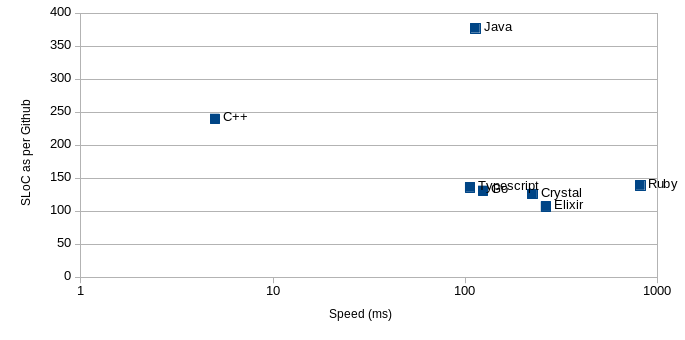
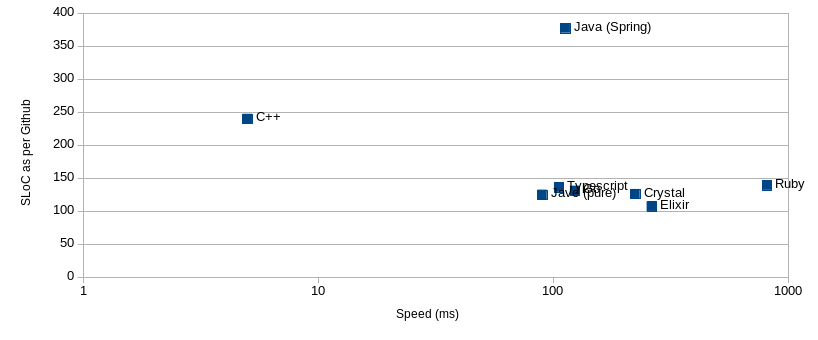
Updated the README file, together with the evaluation results.

diff --git a/README.md b/README.md
@@ -202,9 +202,12 @@ useful reference point.
 Compared to Ruby, Java's syntax is not as expressive leading to more lines of
 code - although my Java friends tell me that will all change with Java 9.  While
 it is fairly OO it does also have primitive types which does sometimes lead to
-more complex code.  That said, it is very fast (although it doesn't touch C++),
-you will always be able to find an answer to your questions on Stackoverflow,
-and there are lots of libraries for it.
+more complex code.
+
+Originally, Neil implemented the version found in the Java directory.  This uses
+Spring for the implementation.  Compared to the other languages, the Spring version
+needed an awful lot of lines of code, and was slightly slower than Typescript and
+Go.  Here is the build and execution of the Spring version:
 
 ```console
 # mvn clean package
@@ -232,8 +235,31 @@ Run 5 : Duration: 138ms
 
 ```
 
-One interesting observation is that because of the way the JIT compiler works
-the code gets faster as we repeat it.
+When I told Neil that his Java version ran slower than Typescript, he was
+suitably shocked, and then went an implemented a version that is pure Java
+without the need for Spring.  Here is the sequence to compile and execute
+the pure Java version:
+
+```console
+# cd 'java(pure)'/src
+# javac Hamiltonian.java
+# java Hamiltonian
+wdc->md->wv->ky->tn->va->nc->sc->ga->fl->al->ms->la->ar->mo->ia->mn->wi->il->in->mi->oh->pa->de->nj->ny->ct->ri->ma->vt->nh->me->
+Duration: 134ms
+wdc->md->wv->ky->tn->va->nc->sc->ga->fl->al->ms->la->ar->mo->ia->mn->wi->il->in->mi->oh->pa->de->nj->ny->ct->ri->ma->vt->nh->me->
+Duration: 122ms
+wdc->md->wv->ky->tn->va->nc->sc->ga->fl->al->ms->la->ar->mo->ia->mn->wi->il->in->mi->oh->pa->de->nj->ny->ct->ri->ma->vt->nh->me->
+Duration: 85ms
+wdc->md->wv->ky->tn->va->nc->sc->ga->fl->al->ms->la->ar->mo->ia->mn->wi->il->in->mi->oh->pa->de->nj->ny->ct->ri->ma->vt->nh->me->
+Duration: 90ms
+wdc->md->wv->ky->tn->va->nc->sc->ga->fl->al->ms->la->ar->mo->ia->mn->wi->il->in->mi->oh->pa->de->nj->ny->ct->ri->ma->vt->nh->me->
+Duration: 85ms
+
+```
+
+Two interesting observations arise: firstly, while Spring obviously brings
+advantages, for this problem it just increases code size and slows down performance;
+secondly, because of the way the JIT compiler works the code gets faster as we repeat it.
 
 Pros:
 - maturity
@@ -388,8 +414,9 @@ not as rounded as Ruby.  I am surprised that Typescript does not have Map suppor
 backed into the syntax like most of the other languages.  Overall, its expressiveness is
 lower than Ruby but better than Go, Java or C++.
 
-The really big surprise, though, is the execution speed.  It is faster than Java,
-although not anywhere near C++.  My main conclusion is that the Map functionality
+The really big surprise, though, is the execution speed.  It is only very slightly
+slower than pure Java and faster than the Spring version in Java.  However, it is
+not anywhere near C++.  My main conclusion is that the Map functionality
 has been implemented behind the scenes in very efficient C.
 
 To transpile to Javascript on Linux:
@@ -432,11 +459,14 @@ of familiarity.
 
 If speed is essential, I would go with C++.  If speed is not essential but
 important I would choose Typescript in preference to
-almost any other language in this comparison.  Crystal and Elixir are
-interesting: they are not that far behind Go and Java from an execution speed
-point-of-view but are much more expressive as languages compared to Java.
-Crystal is not yet production ready, and Elixir requires a more fundamental
-shift in mental model for the programmer.
+almost any other language in this comparison.  Yes, pure Java is marginally
+faster, but Typescript is still more flexible and has a better type system.
+Personally, I cannot see much reason to use Go.
+
+Crystal and Elixir are interesting: they are not that far behind Typescript, Go
+and Java from an execution speed point-of-view but are much more expressive as
+languages compared to Java. Crystal is not yet production ready, and Elixir
+requires a more fundamental shift in mental model for the programmer.
 
 # Final Comment
 Any benchmark is inherently flawed.  They provide indications rather than
